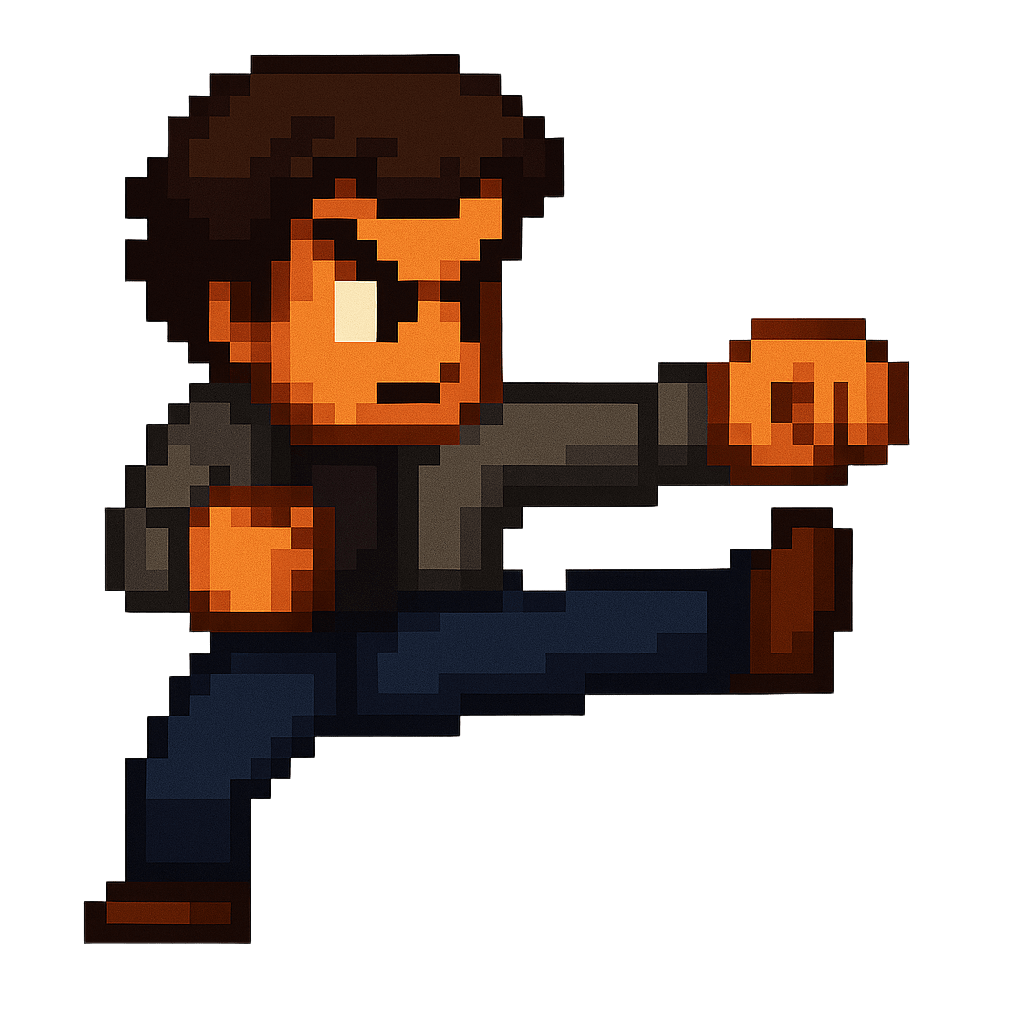
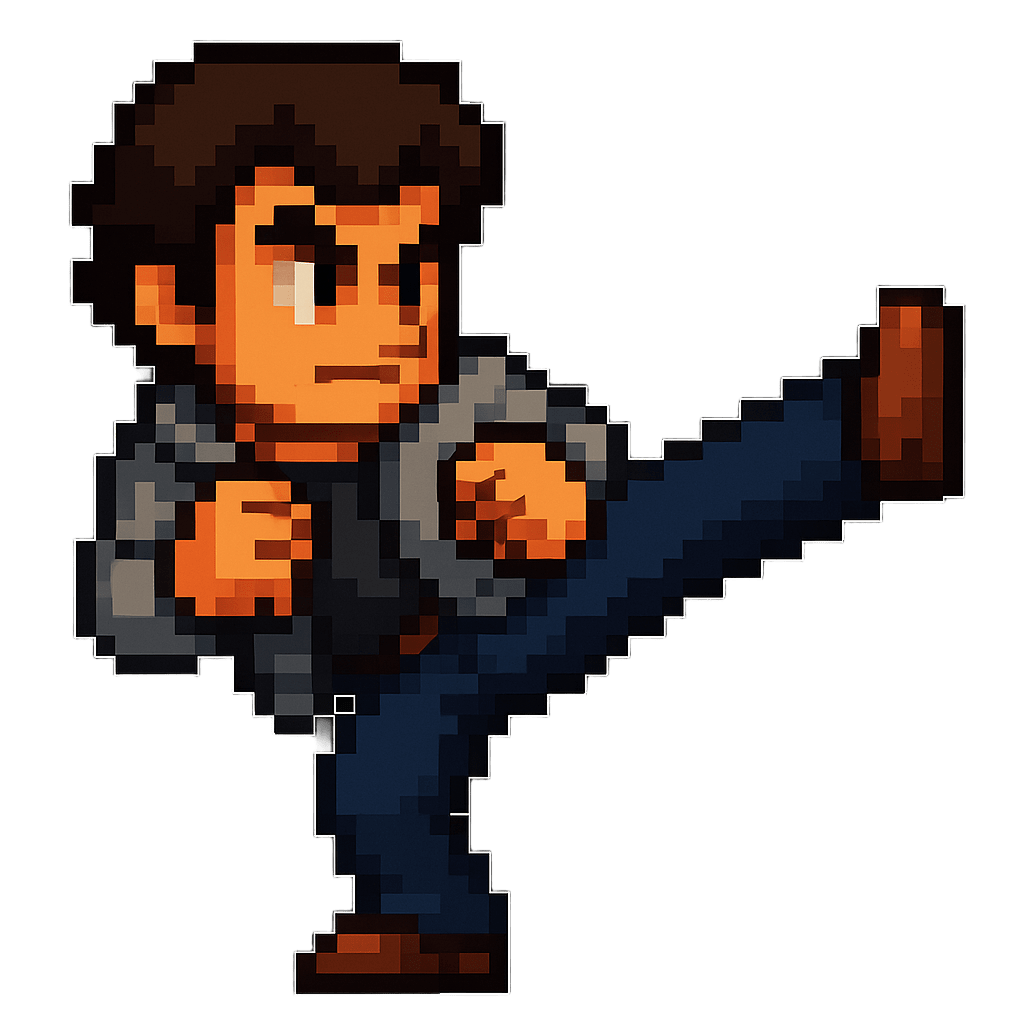
udpate

diff --git a/main.py b/main.py
@@ -23,7 +23,7 @@ class Personaje:
             "posicion_normal": "./personajes/daniel/default.png",
             "primer_ataque": "./personajes/daniel/primer_ataque.png",
             "segundo_ataque": "./personajes/daniel/segundo_ataque.png",
-            "agachado": "./personajes/daniel/5_agachado_defendiendose.png",
+            "agachado": "./personajes/daniel/agachado.png",
             # "segundo_ataque": "./personajes/daniel/2_segundo_ataque.png",
             # "agachado_primer_ataque": "./personajes/daniel/3_agachado_primer_ataque.png",
             # todo
@@ -156,21 +156,45 @@ personaje: Personaje = Personaje(
     defensa=5,
 )
 
-
-# Variables para las barras
+# Variables para las barras del segundo personaje
 vida_actual = 100
 escudo_actual = 100
 barra_extra_actual = 0
 BARRA_EXTRA_MAX = 100
 
-# Tiempos para la barra extra
+# Tiempos para la barra extra del segundo personaje
 tiempo_ultimo_incremento = pygame.time.get_ticks()
 INCREMENTO_BARRA_EXTRA = 20
 INTERVALO_BARRA_EXTRA = 10000  # 10 segundos en milisegundos
 
+# Crear un segundo personaje
+personaje2: Personaje = Personaje(
+    nombre="daniel2",
+    vida=100,
+    ataque=10,
+    defensa=5,
+)
+# Posición inicial diferente para el segundo personaje
+personaje2.x = (WIDTH // 2) + 300
+personaje2.y = HEIGHT - 400
+
+# Variables para las barras del segundo personaje
+vida_actual2 = 100
+escudo_actual2 = 100
+barra_extra_actual2 = 0
+BARRA_EXTRA_MAX2 = 100
+
+# Tiempos para la barra extra del segundo personaje
+tiempo_ultimo_incremento2 = pygame.time.get_ticks()
+INCREMENTO_BARRA_EXTRA2 = 20
+INTERVALO_BARRA_EXTRA2 = 10000  # 10 segundos en milisegundos
+
+# Estado para el segundo personaje
+estado_personaje2: str = "normal"
+
 
 def dibujar_barras():
-    # Posiciones y tamaños
+    # Barras del primer personaje (izquierda)
     x = 30
     y = 30
     ancho = 300
@@ -187,7 +211,7 @@ def dibujar_barras():
     )
     font_barra = pygame.font.SysFont(None, 28)
     txt_vida = font_barra.render(f"Vida: {vida_actual}", True, (255, 255, 255))
-    screen.blit(txt_vida, (x + 10, y + 2))
+    screen.blit(txt_vida, (x + 10, y + 5))
 
     # Escudo (azul)
     y += alto + espacio
@@ -199,7 +223,7 @@ def dibujar_barras():
         border_radius=8,
     )
     txt_escudo = font_barra.render(f"Escudo: {escudo_actual}", True, (255, 255, 255))
-    screen.blit(txt_escudo, (x + 10, y + 2))
+    screen.blit(txt_escudo, (x + 10, y + 5))
 
     # Barra extra (verde)
     y += alto + espacio
@@ -211,11 +235,50 @@ def dibujar_barras():
         border_radius=8,
     )
     txt_extra = font_barra.render(f"Extra: {barra_extra_actual}", True, (255, 255, 255))
-    screen.blit(txt_extra, (x + 10, y + 2))
+    screen.blit(txt_extra, (x + 10, y + 5))
+
+    # Barras del segundo personaje (derecha)
+    x2 = WIDTH - ancho - 30
+    y2 = 30
+
+    pygame.draw.rect(screen, (60, 60, 60), (x2, y2, ancho, alto), border_radius=8)
+    pygame.draw.rect(
+        screen,
+        (220, 40, 40),
+        (x2, y2, ancho * (vida_actual2 / 100), alto),
+        border_radius=8,
+    )
+    txt_vida2 = font_barra.render(f"Vida: {vida_actual2}", True, (255, 255, 255))
+    screen.blit(txt_vida2, (x2 + 10, y2 + 5))
+
+    y2 += alto + espacio
+    pygame.draw.rect(screen, (60, 60, 60), (x2, y2, ancho, alto), border_radius=8)
+    pygame.draw.rect(
+        screen,
+        (40, 100, 220),
+        (x2, y2, ancho * (escudo_actual2 / 100), alto),
+        border_radius=8,
+    )
+    txt_escudo2 = font_barra.render(f"Escudo: {escudo_actual2}", True, (255, 255, 255))
+    screen.blit(txt_escudo2, (x2 + 10, y2 + 5))
+
+    y2 += alto + espacio
+    pygame.draw.rect(screen, (60, 60, 60), (x2, y2, ancho, alto), border_radius=8)
+    pygame.draw.rect(
+        screen,
+        (40, 220, 80),
+        (x2, y2, ancho * (barra_extra_actual2 / BARRA_EXTRA_MAX2), alto),
+        border_radius=8,
+    )
+    txt_extra2 = font_barra.render(
+        f"Extra: {barra_extra_actual2}", True, (255, 255, 255)
+    )
+    screen.blit(txt_extra2, (x2 + 10, y2 + 5))
 
 
 def actualizar_barra_extra():
     global barra_extra_actual, tiempo_ultimo_incremento
+    global barra_extra_actual2, tiempo_ultimo_incremento2
     ahora = pygame.time.get_ticks()
     if (
         barra_extra_actual < BARRA_EXTRA_MAX
@@ -226,41 +289,68 @@ def actualizar_barra_extra():
         )
         tiempo_ultimo_incremento = ahora
 
+    if (
+        barra_extra_actual2 < BARRA_EXTRA_MAX2
+        and ahora - tiempo_ultimo_incremento2 >= INTERVALO_BARRA_EXTRA2
+    ):
+        barra_extra_actual2 = min(
+            barra_extra_actual2 + INCREMENTO_BARRA_EXTRA2, BARRA_EXTRA_MAX2
+        )
+        tiempo_ultimo_incremento2 = ahora
+
 
 # Agregar una variable de estado para controlar la animación
 estado_personaje: str = "normal"  # Puede ser "normal", "agachado", etc.
 
 
 def manejar_eventos():
-    global estado_personaje
+    global estado_personaje, estado_personaje2
     for event in pygame.event.get():
         if event.type == pygame.QUIT:
             pygame.quit()
             exit()
         elif event.type == pygame.KEYDOWN:
+            # Controles para personaje 1
             if event.key == pygame.K_c:
                 personaje.ataque_contador += 1
                 if personaje.ataque_contador == 1:
                     estado_personaje = "primer_ataque"
-
                 elif personaje.ataque_contador == 2:
                     estado_personaje = "segundo_ataque"
                     personaje.ataque_contador = 0
-
             elif event.key == pygame.K_w:
                 estado_personaje = "defendiendose"
+            # Controles para personaje 2
+            if event.key == pygame.K_KP0:  # Numpad 0 para atacar
+                personaje2.ataque_contador += 1
+                if personaje2.ataque_contador == 1:
+                    estado_personaje2 = "primer_ataque"
+                elif personaje2.ataque_contador == 2:
+                    estado_personaje2 = "segundo_ataque"
+                    personaje2.ataque_contador = 0
+            elif event.key == pygame.K_KP7:  # Numpad 7 para defenderse
+                estado_personaje2 = "defendiendose"
 
     # Movimiento continuo con teclas presionadas
     keys = pygame.key.get_pressed()
+    # Personaje 1
     if keys[pygame.K_DOWN]:
         estado_personaje = "agachado"
     elif estado_personaje == "agachado":
         estado_personaje = "normal"
-
     if keys[pygame.K_RIGHT]:
         personaje.x += personaje.velocidad
     if keys[pygame.K_LEFT]:
         personaje.x -= personaje.velocidad
+    # Personaje 2 (Numpad: 4, 6, 2 para izq, der, agacharse)
+    if keys[pygame.K_KP2]:
+        estado_personaje2 = "agachado"
+    elif estado_personaje2 == "agachado":
+        estado_personaje2 = "normal"
+    if keys[pygame.K_KP6]:
+        personaje2.x += personaje2.velocidad
+    if keys[pygame.K_KP4]:
+        personaje2.x -= personaje2.velocidad
 
 
 def dibujar():
@@ -278,6 +368,13 @@ def dibujar():
         "defendiendose": ("defendiendose", (personaje.x, personaje.y)),
         "normal": ("posicion_normal", (personaje.x, personaje.y)),
     }
+    sprite_map2 = {
+        "agachado": ("agachado", (personaje2.x, personaje2.y)),
+        "primer_ataque": ("primer_ataque", (personaje2.x, personaje2.y)),
+        "segundo_ataque": ("segundo_ataque", (personaje2.x, personaje2.y)),
+        "defendiendose": ("defendiendose", (personaje2.x, personaje2.y)),
+        "normal": ("posicion_normal", (personaje2.x, personaje2.y)),
+    }
 
     sprite_key, pos = sprite_map.get(
         estado_personaje, ("posicion_normal", (personaje.x, personaje.y))
@@ -286,21 +383,35 @@ def dibujar():
     if sprite:
         screen.blit(sprite, pos)
 
+    sprite_key2, pos2 = sprite_map2.get(
+        estado_personaje2, ("posicion_normal", (personaje2.x, personaje2.y))
+    )
+    sprite2 = personaje2.sprites.get(sprite_key2)
+    if sprite2:
+        screen.blit(sprite2, pos2)
+
 
 # Alternar ataques mientras la tecla 'c' esté presionada
 ataque_alternar = False
 ataque_tiempo_ultimo = 0
 ATAQUE_INTERVALO = 200  # milisegundos
 
+# Alternar ataques para personaje 2
+ataque_alternar2 = False
+ataque_tiempo_ultimo2 = 0
+ATAQUE_INTERVALO2 = 200
+
 while True:
     manejar_eventos()
     actualizar_barra_extra()
 
-    # Alternar ataques si la tecla 'c' está presionada
+    # Alternar ataques si la tecla 'c' está presionada (personaje 1)
     keys = pygame.key.get_pressed()
     if keys[pygame.K_c]:
         ahora = pygame.time.get_ticks()
         if not ataque_alternar or ahora - ataque_tiempo_ultimo > ATAQUE_INTERVALO:
+            if not ataque_alternar:
+                personaje.ataque_contador = 0
             ataque_alternar = True
             personaje.ataque_contador += 1
             if personaje.ataque_contador == 1:
@@ -310,10 +421,41 @@ while True:
                 personaje.ataque_contador = 0
             ataque_tiempo_ultimo = ahora
     else:
+        if ataque_alternar:
+            personaje.ataque_contador = 0
         ataque_alternar = False
         if estado_personaje in ("primer_ataque", "segundo_ataque"):
             estado_personaje = "normal"
 
+    # Alternar ataques para personaje 2 (Numpad 0)
+    if keys[pygame.K_KP0]:
+        ahora2 = pygame.time.get_ticks()
+        if not ataque_alternar2 or ahora2 - ataque_tiempo_ultimo2 > ATAQUE_INTERVALO2:
+            if not ataque_alternar2:
+                personaje2.ataque_contador = 0
+            ataque_alternar2 = True
+            personaje2.ataque_contador += 1
+            if personaje2.ataque_contador == 1:
+                estado_personaje2 = "primer_ataque"
+            elif personaje2.ataque_contador == 2:
+                estado_personaje2 = "segundo_ataque"
+                personaje2.ataque_contador = 0
+            ataque_tiempo_ultimo2 = ahora2
+    else:
+        if ataque_alternar2:
+            personaje2.ataque_contador = 0
+        ataque_alternar2 = False
+        if estado_personaje2 in ("primer_ataque", "segundo_ataque"):
+            estado_personaje2 = "normal"
+
     dibujar()
     pygame.display.update()
     clock.tick(60)
+    # Voltear la imagen del personaje 2 para que mire hacia la derecha
+    # Voltear la imagen del personaje 2 para que mire hacia la derecha (solo una vez)
+    if not hasattr(personaje2, "sprites_flipped"):
+        for key in personaje2.sprites:
+            personaje2.sprites[key] = pygame.transform.flip(
+                personaje2.sprites[key], True, False
+            )
+        personaje2.sprites_flipped = True  # type: ignore
